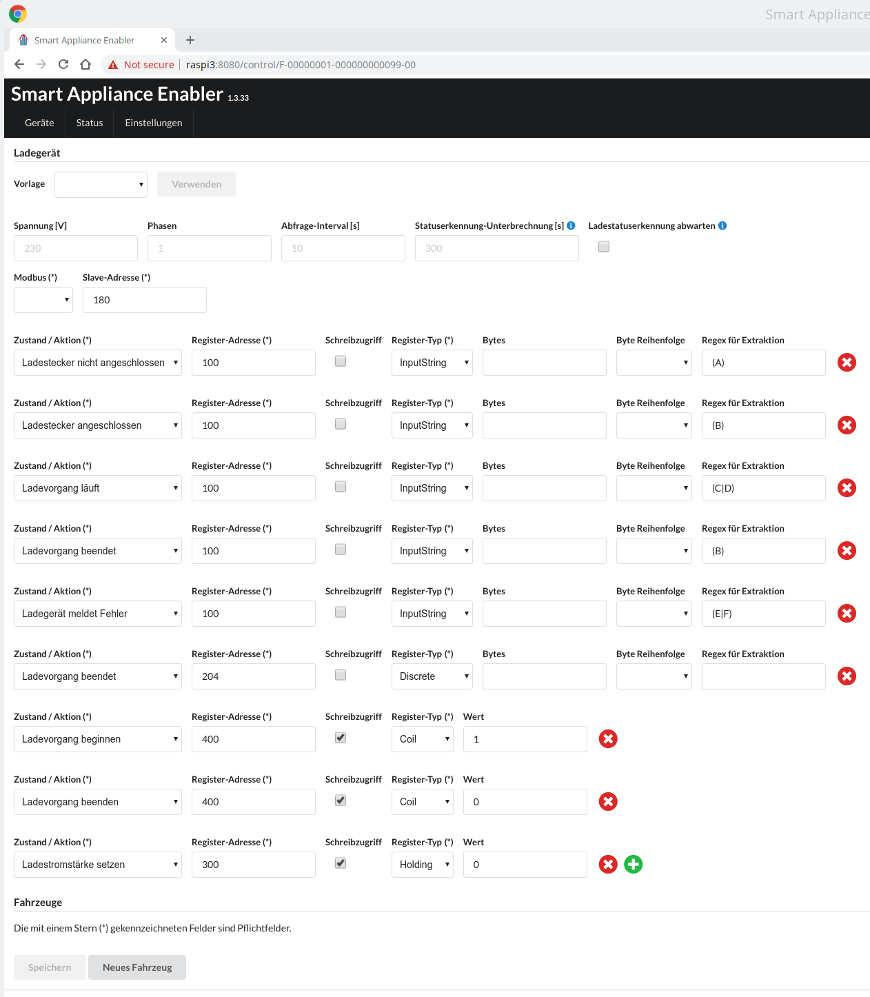
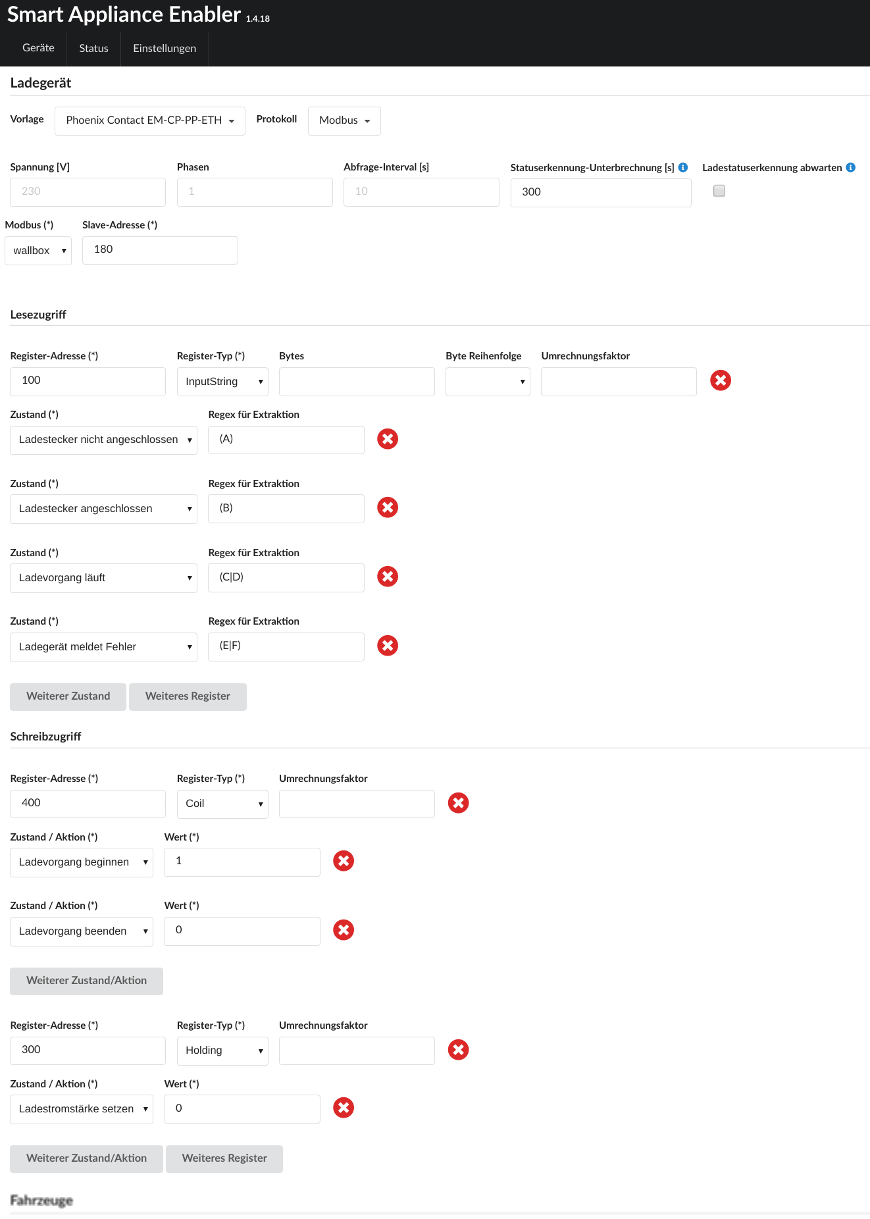
EV charger documentation updated

diff --git a/src/main/angular/src/app/control-evcharger/ev-charger-templates.ts b/src/main/angular/src/app/control-evcharger/ev-charger-templates.ts
@@ -4,7 +4,7 @@ export class EvChargerTemplates {
 
   static getTemplates(): { [name: string]: EvCharger } {
     const templates: { [name: string]: EvCharger } = {};
-    templates['PhoenixContact'] = JSON.parse('{\n' +
+    templates['Phoenix Contact EM-CP-PP-ETH'] = JSON.parse('{\n' +
       '  "@class": "de.avanux.smartapplianceenabler.control.ev.ElectricVehicleCharger",\n' +
       '  "voltage": null,\n' +
       '  "phases": null,\n' +

diff --git a/doc/EVCharger_DE.md b/doc/EVCharger_DE.md
@@ -1,6 +1,6 @@
 # Ladegeräte für Elektro-Fahrzeuge (Wallboxen)
 
-Damit der Sunny Home Manager die Leistung von Ladegeräten für Elekto-Fahrzeuge steuern kann, **muss zur Bestimmung der aktuellen Leistungsaufnahme ein Stromzähler verwendet und im Smart Appliance Enabler konfiguriert werden**!
+Damit der Sunny Home Manager die Leistung von Ladegeräten für Elekto-Fahrzeuge steuern kann, **muss zur Bestimmung der aktuellen Leistungsaufnahme ein Stromzähler im Smart Appliance Enabler konfiguriert werden**!
 
 ## Konfiguration
 ### Appliance
@@ -9,20 +9,17 @@ Um ein Gerät zum Laden von Elektroautos konfigurieren zu können, muss als Typ 
 ![Elektroauto-Ladegerät](../pics/fe/GeraetEV.png)
 
 ### Schalter
-Im *Smart Appliance Enabler* wird ein Ladegerät für Elektro-Autos als komplexer Schalter mit diversen Konfigurationsparametern für den Controller und die Fahrzeuge repräsentiert.
-#### Controller
-Die Konfigurationsparameter richten sich dabei vor allem nach dem im Ladegerät verbauten Controller. Momentan unterstützt der *Smart Appliance Enabler* folgende Controller:
-* [Phoenix Contact EM-CP-PP-ETH](https://www.phoenixcontact.com/online/portal/de?uri=pxc-oc-itemdetail:pid=2902802)
-  * mit folgenden DIP-Schalter-Einstellungen: DIP-Schalter 10 an, alle anderen DIP-Schalter aus
+Im *Smart Appliance Enabler* wird ein Ladegerät für Elektro-Autos als komplexer Schalter mit diversen Konfigurationsparametern und die Fahrzeuge repräsentiert.
 
-Damit die Konfigurationsparameter nicht manuell eingegeben werden müssen, existieren für die unterstützten Controller **Vorlagen**, aus denen die benötigte Konfiguration geladen werden kann.
+Momentan unterstützt der *Smart Appliance Enabler* folgende Ladegeräte für Elektro-Fahrzeuge:
+* [Ladegeräte mit Phoenix Contact EM-CP-PP-ETH-Controller](PhoenixContactEMCPPPETH_DE.md) wie z.B. Walli
+* [go-eCharger](GoeCharger_DE.md)
+* wallbe
 
-![Konfiguration Phoenix Contact](../pics/fe/EVChargerPhoenixContact.png)
-
-Grundsätzlich sollte auch die Verwendung von Controllern möglich sein, die nicht direkt untersützt werden, solange diese über ein unterstütztes Protokoll angebunden werden:
+Der *Smart Appliance Enabler* stellt Vorlagen bereit, welche die Konfiguration für die genannt Ladegeräte beinhalten.
+Darüber hinaus sollte auch die Verwendung von anderen Ladegeräten möglich sein, solange diese über ein unterstütztes Protokoll angebunden werden:
 * [Modbus/TCP](Modbus_DE.md)
-
-Wenn der Controller einen benötigten Wert nicht allein liefert, sondern diese irgendwo in einem Text (XML, JSON, ...) enthalten ist, muss ein [Regex für Extraktion](WertExtraktion_DE.md) angegeben werden.
+* HTTP
 
 #### Fahrzeuge
 Die Konfiguration von Fahrzeugen beinhaltet Parameter zur Steuerung des Ladevorgangs und Standardwerte für Dialoge.

diff --git a/README.md b/README.md
@@ -57,8 +57,8 @@ Zum Ein-/Ausschalten eines Gerätes unterstützt der *Smart Appliance Enabler* d
 | Protokolle    | Produkte      |
 | ------------- | ------------- |
 | GPIO | [GPIO-basierte Schalter](doc/GPIOSwitch_DE.md) |
-| Modbus | [Modbus-basierte Schalter](doc/ModbusSwitch_DE.md)<br><br>Modbus-basierte Ladegeräte für Elektroautos<ul><li>[Phoenix Contact EM-CP-PP-ETH](doc/EVCharger_DE.md)</li></ul>|
-| HTTP | [HTTP-basierte Schalter](doc/HttpSwitch_DE.md) allgemein<ul></ul>kompatible Produkte<ul><li>[Shelly Plug](doc/ShellyPlug_DE.md)</li><li>[Shelly 4 Pro](doc/Shelly4Pro_DE.md)</li><li>[Edimax SP-2101W](doc/EdimaxSP2101W_DE.md)</li></ul>mit [Tasmota-Firmware](doc/Tasmota_DE.md) nutzbare Produkte<ul><li>[Gosund SP111](doc/GosundSP111_DE.md)</li><li>[Sonoff Pow](doc/SonoffPow_DE.md)</li></ul>|
+| Modbus | [Modbus-basierte Schalter](doc/ModbusSwitch_DE.md)<br><br>[Modbus-basierte Ladegeräte für Elektroautos](doc/EVCharger_DE.md)|
+| HTTP | [HTTP-basierte Schalter](doc/HttpSwitch_DE.md) allgemein<ul></ul>kompatible Produkte<ul><li>[Shelly Plug](doc/ShellyPlug_DE.md)</li><li>[Shelly 4 Pro](doc/Shelly4Pro_DE.md)</li><li>[Edimax SP-2101W](doc/EdimaxSP2101W_DE.md)</li></ul>mit [Tasmota-Firmware](doc/Tasmota_DE.md) nutzbare Produkte<ul><li>[Gosund SP111](doc/GosundSP111_DE.md)</li><li>[Sonoff Pow](doc/SonoffPow_DE.md)</li></ul>[HTTP-basierte Ladegeräte für Elektroautos](doc/EVCharger_DE.md)|
 
 Alle aufgeführten Schalter (außer Ladegeräte für Elektro-Autos) können mit einer [Anlaufstromerkennung](doc/Anlaufstromerkennung_DE.md) verwendet werden, um die Programmierung des Gerätes zu ermöglichen.
 

diff --git a/doc/PhoenixContactEMCPPPETH_DE.md b/doc/PhoenixContactEMCPPPETH_DE.md
@@ -1,0 +1,17 @@
+# Elektro-Fahrzeug-Ladegeräte mit Phoenix Contact EM-CP-PP-ETH-Controller
+
+In vielen Ladegeräten ist der [Phoenix Contact EM-CP-PP-ETH](https://www.phoenixcontact.com/online/portal/de?uri=pxc-oc-itemdetail:pid=2902802)-Controller verbaut, darunter:
+* Wallboxen der [Walli-Serie](https://esl-emobility.com/de/wallbox-ladestation-elektroauto.html?brand=183) 
+* Wallbe-Wallboxen
+
+## Geräte-Konfiguration
+
+Am Controller befinden sich *DIP-Schalter*, die wie folgt eingestellt sein müssen: DIP-Schalter 10 an, alle anderen DIP-Schalter aus
+
+## Konfiguration im Smart Appliance Enabler
+
+Für neuere Wallbe-Wallboxen sollte die Vorlage `wallbe (neuer Controller)` verwendet werden.
+Alle anderen, oben genannten Ladegeräte werden durch die Vorlage `Phoenix Contact EM-CP-PP-ETH` konfiguriert.
+
+![Konfiguration Phoenix Contact](../pics/fe/EVChargerPhoenixContact.png)
+ 

diff --git a/doc/GoeCharger_DE.md b/doc/GoeCharger_DE.md
@@ -1,0 +1,13 @@
+# go-eCharger
+Ein sehr vielseitiges, kompaktes Ladegerät, das auch für den mobilen Einsatz geeignet ist, ist der [go-eCharger](https://go-e.co/go-echarger-home/).
+
+## Geräte-Konfiguration
+- WLAN
+- Freigabe der HTTP-Schnittstelle
+
+## Konfiguration im Smart Appliance Enabler
+
+Für neuere Wallbe-Wallboxen sollte die Vorlage `wallbe (neuer Controller)` verwendet werden.
+Alle anderen, oben genannten Ladegeräte werden durch die Vorlage `Phoenix Contact EM-CP-PP-ETH` konfiguriert.
+
+![Konfiguration go-eCharger](../pics/fe/EVChargerGoeCharger.png)
